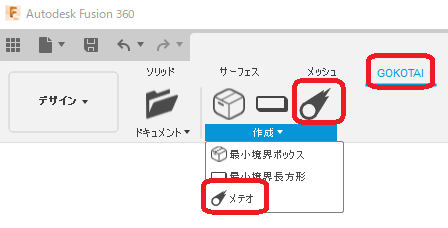
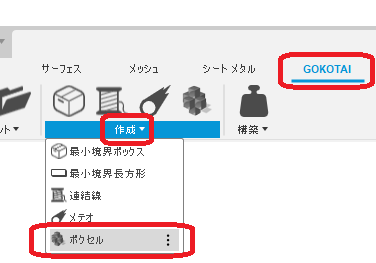
add voxel command

diff --git a/GOKOTAI/commands/voxel/VoxelFactry.py b/GOKOTAI/commands/voxel/VoxelFactry.py
@@ -8,10 +8,9 @@ import pathlib
 THIS_DIR = pathlib.Path(__file__).resolve().parent
 SMT_DIR = THIS_DIR / 'temp'
 SMT_PATH = str(SMT_DIR / 'voxel.smt')
-# _temppath = r'C:\temp\temp.smt'
 
 INTERSECTION_BOOLEAN = adsk.fusion.BooleanTypes.IntersectionBooleanType
-# UNION_BOOLEAN = adsk.fusion.BooleanTypes.UnionBooleanType
+UNION_BOOLEAN = adsk.fusion.BooleanTypes.UnionBooleanType
 DIFFERENCE_BOOLEAN = adsk.fusion.BooleanTypes.DifferenceBooleanType
 
 class RelativeStatus(IntEnum):
@@ -19,7 +18,7 @@ class RelativeStatus(IntEnum):
     COLLISION = auto()
     UNRELATED = auto()
 
-DEBUG = True
+DEBUG = False
 
 
 def run(context):
@@ -29,21 +28,6 @@ def run(context):
         ui = app.userInterface
         des: adsk.fusion.Design = app.activeProduct
         root: adsk.fusion.Component = des.rootComponent
-
-        fact = VoxelFactry(
-            root.bRepBodies[0],
-            6
-        )
-        # oct = fact.test()
-        # a, b = fact.get_voxel_bodies()
-        # print(f'{len(a)} : {len(b)}')
-        fact.test()
-        iptMgr: adsk.core.ImportManager = app.importManager
-        smtOpt: adsk.core.SMTImportOptions = iptMgr.createSMTImportOptions(_temppath)
-        iptMgr.importToTarget2(smtOpt, root)
-
-        a=1
-
 
     except:
         if ui:
@@ -100,14 +84,13 @@ class VoxelFactry():
         stackBBoxes, includeBBoxes, unrelatedBBoxes = self._get_voxel_bodies()
         dump(f'{len(stackBBoxes)}:{len(includeBBoxes)}:{len(unrelatedBBoxes)}')
 
-
         if isInside:
             stackBBoxes.extend(includeBBoxes)
         else:
             unrelatedBBoxes.extend(includeBBoxes)
 
         if isCombin:
-            bodies = self._get_combine_body_list(unrelatedBBoxes)
+            bodies = self._get_combine_body_list(stackBBoxes)
         else:
             bodies = [self.tmpMgr.createBox(b) for b in stackBBoxes]
 
@@ -122,12 +105,28 @@ class VoxelFactry():
 
 
     def _get_combine_body_list(self, bBoxes: list) -> list:
-        bodies = [self.tmpMgr.createBox(b) for b in bBoxes]
-        targetBody: adsk.fusion.BRepBody = self.tmpMgr.createBox(self.base_BBox)
 
-        [self.tmpMgr.booleanOperation(targetBody, b, DIFFERENCE_BOOLEAN) for b in bodies]
-        
-        return [targetBody]
+        def tryUnion(target: adsk.fusion.BRepBody, tools: list):
+            ngLst = []
+            for tool in tools:
+                try:
+                    self.tmpMgr.booleanOperation(target, tool, UNION_BOOLEAN)
+                except:
+                    ngLst.append(tool)
+
+            return target, ngLst
+
+        bodies = [self.tmpMgr.createBox(b) for b in bBoxes]
+        targetBody: adsk.fusion.BRepBody = bodies.pop()
+
+        targetBody, ngLst = tryUnion(targetBody, bodies)
+        targetBody, ngLst = tryUnion(targetBody, ngLst)
+
+        res = [targetBody]
+        if len(ngLst) > 0:
+            res.extend(ngLst)
+
+        return res
 
 
     def _export_smt(self, bodies: list):
@@ -239,14 +238,17 @@ class VoxelFactry():
         body1: adsk.fusion.BRepBody,
         body2: adsk.fusion.BRepBody,) -> RelativeStatus:
 
-        volume = body1.volume
-        self.tmpMgr.booleanOperation(body1, body2, INTERSECTION_BOOLEAN)
+        try:
+            volume = body1.volume
+            self.tmpMgr.booleanOperation(body1, body2, INTERSECTION_BOOLEAN)
 
-        if body1.volume == 0:
-            return RelativeStatus.UNRELATED
-        elif body1.volume == volume:
-            return RelativeStatus.INCLUDE
-        else:
+            if body1.volume == 0:
+                return RelativeStatus.UNRELATED
+            elif body1.volume == volume:
+                return RelativeStatus.INCLUDE
+            else:
+                return RelativeStatus.COLLISION
+        except:
             return RelativeStatus.COLLISION
 
 

diff --git a/GOKOTAI/commands/voxel/entry.py b/GOKOTAI/commands/voxel/entry.py
@@ -13,7 +13,7 @@ ui = app.userInterface
 # TODO *** コマンドのID情報を指定します。 ***
 CMD_ID = f'{config.COMPANY_NAME}_{config.ADDIN_NAME}_voxel'
 CMD_NAME = 'ボクセル'
-CMD_Description = '指定したボディを元にボクセル化します。'
+CMD_Description = '指定したボディを元にボクセル化したボディを作成します。'
 
 # パネルにコマンドを昇格させることを指定します。
 IS_PROMOTED = True
@@ -120,9 +120,9 @@ def command_created(args: adsk.core.CommandCreatedEventArgs):
     _bodyIpt = inputs.addSelectionInput(
         'bodyIptId',
         'ボディ',
-        'ボディを選択'
+        'ソリッドボディを選択'
     )
-    _bodyIpt.addSelectionFilter('Bodies')
+    _bodyIpt.addSelectionFilter(adsk.core.SelectionCommandInput.SolidBodies)
 
     global _countIpt
     _countIpt = inputs.addIntegerSpinnerCommandInput(
@@ -160,7 +160,6 @@ def command_created(args: adsk.core.CommandCreatedEventArgs):
         '',
         False
     )
-
 
     # **event**
     futil.add_handler(
@@ -251,7 +250,6 @@ def command_inputChanged(args: adsk.core.InputChangedEventArgs):
         _fact.set_body(None)
 
     _fact.set_division_level(_countIpt.value)
-
 
     unitSize = _fact.get_unit_size()
 

diff --git a/GOKOTAI/commands/voxel/README.md b/GOKOTAI/commands/voxel/README.md
@@ -1,13 +1,12 @@
-# **メテオ**
+# **ボクセル**
 
-本コマンドは、指定したボディにZの上方向から大量の点を降り注ぎます。
-・・・ザックリです。
+本コマンドは、指定したボディを元にボクセル化したボディを作成します。
 
 ---
 
 ## **使用法** :
 
-アドイン起動後は、"GOKOTAI" - "作成" 内に "メテオ" コマンドが追加されます。
+アドイン起動後は、"GOKOTAI" - "作成" 内に "ボクセル" コマンドが追加されます。
 
 ![Alt text](./resources_readme/menu.png)
 
@@ -15,23 +14,31 @@
 
 ![Alt text](./resources_readme/dialog.png)
 
-- ボディ：該当のボディを選択してください。
-- 分割数：ボディのサイズに対して大まかな点を配置する目安です。
+- ボディ：該当のソリッドボディを選択してください。
+- 分割レベル：ボクセル化する際の分割レベルを指定してください。数値が大きくなれば、より細かくなりますが処理時間が掛かります。（6以下推奨）
+- 1辺の長さ:ボクセル化した際の最小サイズの立方体の辺の長さを表示します。
+- 中身もボクセル化：チェックを入れると、完全に閉ざされている部分のボクセル化の有無の選択です。
+  - 球体をボクセル化した際のチェックの有無の違いです。
 
+  ![Alt text](./resources_readme/inside.png)
 
+- 全てを結合する：チェックを入れると、ボクセル化した際のボディを可能な限り結合し一体化します。
+  - 球体をボクセル化した際のチェックの有無の違いです。
+
+  ![Alt text](./resources_readme/combin.png)
 ---
 
 ## **成果物** :
 
-以下のような多数の点が描かれたスケッチが作成されます。
+"voxel" と言う名称のコンポーネントが新作されボクセル化されたボディが入っています。
 
 ![Alt text](./resources_readme/res.png)
 
 ---
 
-## **注意** :
+## **注意・問題点** :
 
-- ルートコンポーネント以外のボディを指定した場合、正しい位置に作成されません。
+- 処理終了後もコマンドのアイコンがクリックされた表示のままになる。
 
 ---
 
@@ -39,7 +46,7 @@
 
 以下の環境で確認しています。
 
-- Fusion360 Ver2.0.12392
+- Fusion360 Ver2.0.14793
 - Windows10 64bit Pro , Home
 
 ---

diff --git a/README.md b/README.md
@@ -25,7 +25,7 @@
 + [ボディの重心点](./GOKOTAI/commands/COG/) : 指定したボディの重心点を作成します。
 + [カラフルワイヤーフレーム](./GOKOTAI/commands/ColorfulWireFrame/) :　色付きのワイヤーフレーム表示を行います。
 + [原寸大](./GOKOTAI/commands/Fullsize/) :　画面を原寸大のサイズになるようにズームします。(補正による調整が必要です)
-
++ [ボクセル](./GOKOTAI/commands/voxel/) :　指定したボディを元にボクセル化したボディを作成します。
 ---
 
 ## **ライセンス**:

diff --git a/CHANGELOG.md b/CHANGELOG.md
@@ -1,5 +1,8 @@
 # Change of Fusion360 GOKOTAI
 
+## 0.0.23
++ ボクセルコマンド追加
+
 ## 0.0.22
 + x2,÷2機能を追加("原寸大コマンド")
 
